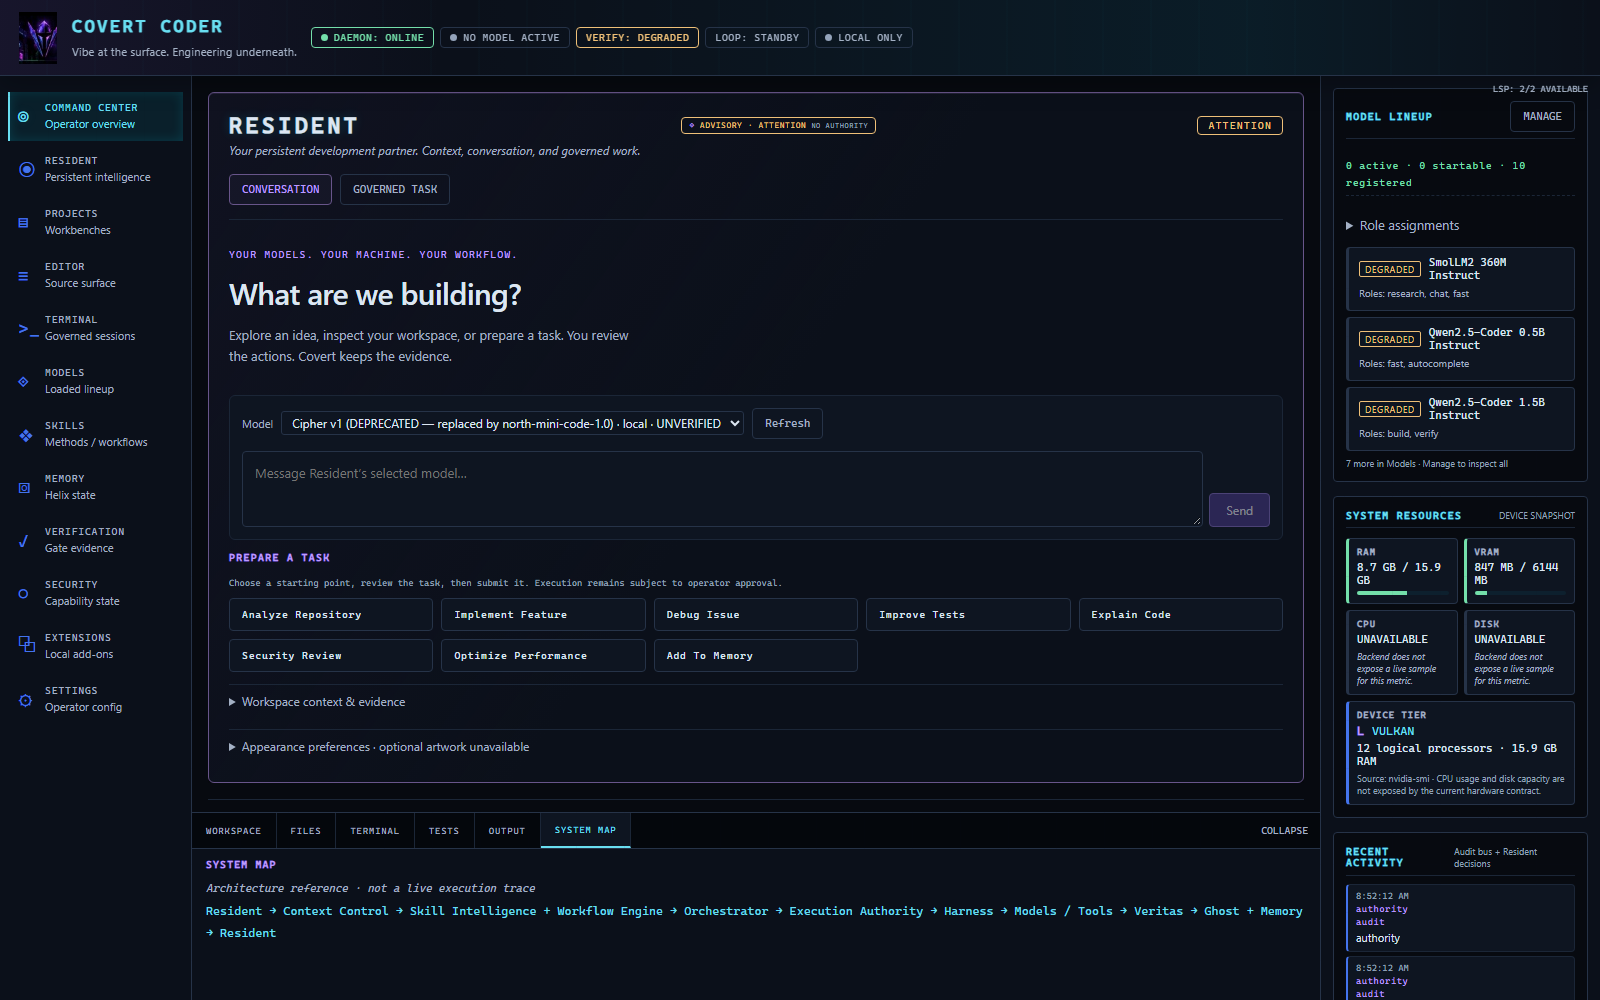
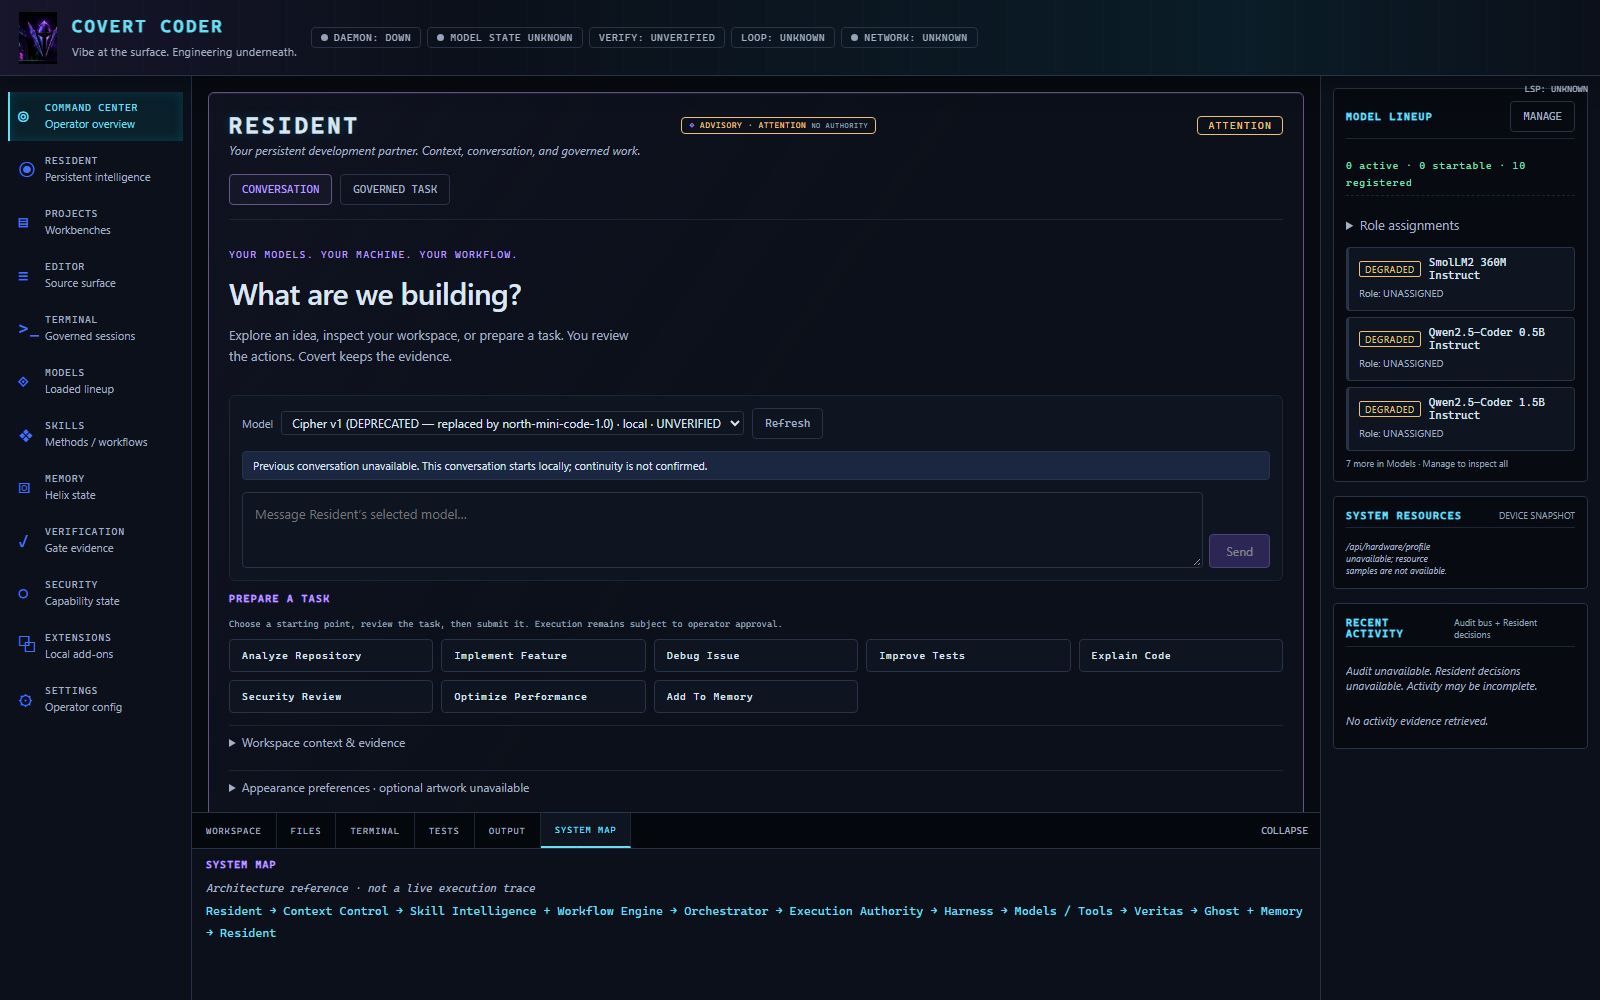
fix(cockpit): recover startup and bound workspace controls

diff --git a/browser/src/cockpit/ResidentCore.ts b/browser/src/cockpit/ResidentCore.ts
@@ -406,13 +406,19 @@ export function createResidentCore(parent: HTMLElement, _store: Store<AppState>,
     }
   }
 
+  let refreshing = false;
   async function refresh(): Promise<void> {
-    if (!alive) return;
-    const [summary, context, push, decisions] = await Promise.all([loadSummary(), loadContext(), loadPush(), loadDecisions()]);
-    if (!alive) return;
-    const data: ResidentData = { summary, context, push, decisions };
-    paintStateBadge(data);
-    paintConversation(data);
+    if (!alive || refreshing) return;
+    refreshing = true;
+    try {
+      const [summary, context, push, decisions] = await Promise.all([loadSummary(), loadContext(), loadPush(), loadDecisions()]);
+      if (!alive) return;
+      const data: ResidentData = { summary, context, push, decisions };
+      paintStateBadge(data);
+      paintConversation(data);
+    } finally {
+      refreshing = false;
+    }
   }
 
   void refresh();

diff --git a/browser/src/editor/groups.ts b/browser/src/editor/groups.ts
@@ -83,6 +83,20 @@ export function createGroups(root: HTMLElement, opts: GroupsOptions): GroupsMana
   const listeners = new Set<() => void>();
 
   const notify = (): void => {
+    for (const group of groups.values()) {
+      const close = group.element.querySelector<HTMLButtonElement>('[aria-label="Close editor group"]');
+      if (close) {
+        close.disabled = groups.size <= 1;
+        close.title = close.disabled ? 'Keep at least one editor group open' : 'Close group';
+      }
+      for (const direction of ['right', 'below']) {
+        const split = group.element.querySelector<HTMLButtonElement>(`[aria-label="Split editor ${direction}"]`);
+        if (split) {
+          split.disabled = groups.size >= GROUP_MAX;
+          split.title = split.disabled ? `Maximum ${GROUP_MAX} editor groups reached` : `Split ${direction}`;
+        }
+      }
+    }
     for (const fn of listeners) fn();
   };
 

diff --git a/browser/src/cockpit/ProjectsSurface.ts b/browser/src/cockpit/ProjectsSurface.ts
@@ -87,7 +87,9 @@ export function createProjectsSurface(parent: HTMLElement, store: Store<AppState
   }
 
   async function refresh(): Promise<void> {
-    if (!alive) return;
+    if (!alive || refreshButton.disabled) return;
+    refreshButton.disabled = true;
+    refreshButton.textContent = 'REFRESHING…';
     try {
       const workspace = await api.workspaceList();
       if (!alive) return;
@@ -95,6 +97,11 @@ export function createProjectsSurface(parent: HTMLElement, store: Store<AppState
       renderWorkspace(workspace);
     } catch {
       renderWorkspace(null);
+    } finally {
+      if (alive) {
+        refreshButton.disabled = false;
+        refreshButton.textContent = 'REFRESH';
+      }
     }
   }
 

diff --git a/browser/src/cockpit/SystemTelemetry.ts b/browser/src/cockpit/SystemTelemetry.ts
@@ -80,12 +80,15 @@ export function createSystemTelemetry(parent: HTMLElement, _store: Store<AppStat
   parent.appendChild(root);
 
   let alive = true;
+  let refreshing = false;
 
   async function refresh(): Promise<void> {
-    if (!alive) return;
+    if (!alive || refreshing) return;
+    refreshing = true;
     let hardware: HardwareProfileResponseT | null = null;
     try { hardware = await api.hardwareProfile(); }
     catch { hardware = null; }
+    finally { refreshing = false; }
     if (!alive) return;
     const data: TelemetryData = { hardware };
     paint(data);

diff --git a/browser/src/main.ts b/browser/src/main.ts
@@ -129,7 +129,8 @@ async function boot(): Promise<void> {
   } catch (error) {
     shell.topbar.setDaemon({ label: 'DOWN', reachable: false });
     shell.notify('NOT_READY', error instanceof Error ? error.message : 'daemon unreachable');
-    return;
+    // A failed observation must not permanently strand the editor. Continue
+    // bounded restoration; every file/operation request still enforces authority.
   }
 
   try {

diff --git a/docs/evidence/final-cockpit-report.md b/docs/evidence/final-cockpit-report.md
@@ -47,8 +47,11 @@ All 12 destinations were traversed in the real browser and their visible control
 | Empty chat/task submission | DISABLED WITH REASON — enter content first; active task/stream prevents duplicate submission |
 | Chat streaming/cancellation and governed decisions | REAL BUT DEGRADED in this checkout — UI stream fixture and route/authority tests pass; no installed model, so no live generation certification |
 | Project file opening, Monaco splits/tab controls | REAL AND WORKING — real `package.json`, distinct split IDs, collapse and last-group preservation |
+| Latest Windows workspace availability | REAL BUT DEGRADED — initial read unavailable; explicit Refresh recovered it and real file opening/splits passed in the latest diagnostic run |
 | Editor session persistence | REAL BUT DEGRADED in capture run — save approvals intentionally denied; explanatory notification, no unhandled rejection; no persistence claim |
-| PTY open/stop | REAL AND WORKING — exact start/stop approval, real shell command; no model-mediated command execution |
+| Last editor-group close / eight-group split limit | DISABLED WITH REASON — explicit unavailable state and explanatory title; browser regression checks exercise both limits |
+| Workspace Refresh | REAL AND WORKING / backend-dependent — pending label and duplicate-request lock; one explicit recovery attempt is allowed by the live review driver |
+| PTY open/stop | Earlier exact start/stop approval and real shell command passed. Latest run REAL BUT DEGRADED: provider probe timed out, OPEN SESSION unavailable; no model-mediated command execution |
 | Model start/stop | REAL BUT DEGRADED / DISABLED WITH REASON — runtime/artifact prerequisites absent; contract tests cover authority/lifecycle; no artifact-to-READY promotion |
 | Skill activation / dynamic Harness Modes | NOT YET AVAILABLE — no fake execution controls |
 | Memory retrieval | REAL BUT GOVERNED — explicit existing route; no automatic write-triggering refresh or invented recall guarantee |
@@ -93,14 +96,32 @@ Final results and release decision are recorded in the accompanying verification
 - Whole-repository ESLint: exit 0, zero errors, 60 existing warnings.
 - Production Vite build: exit 0; existing large-bundle warning remains (Monaco and language workers).
 - Current cockpit acceptance: exit 0, including streamed fixture response, navigation, truth states, geometry, responsive layout and zero browser exceptions.
-- Final real-stack functional review: exit 0, 12 surfaces, four widths, real Monaco and approved PTY; zero page exceptions. Expected HTTP 409 approval challenges/session-save denial retained.
+- Earlier complete real-stack functional review: exit 0, 12 surfaces, four widths, real Monaco and approved PTY; zero page exceptions. Expected HTTP 409 approval challenges/session-save denial retained. Latest follow-up is separately recorded below.
 - Affected integration/architecture selection: 65/65 passed; supplemental UI/session selection 17/17 passed; approval/product-text/toast selection 6/6 passed. These overlap and are not summed as unique tests.
 - Frontend launcher unit tests: 3/3 passed.
 - First full architecture run: 611 passed, 16 timed out, 11 skipped. All six affected files rerun alone: 41/41 passed. A final quiet full run is recorded separately; no timeout thresholds or assertions were weakened.
 - Final quiet full architecture run: **627 passed, 1 failed, 11 skipped**, exit 1, 577.1 seconds. Failure: `tests/arch/closed-loop-mission.test.ts:230`, approved-action mission, `agent should finish done (got null)`. The status polling budget ended without observing done/error/aborted. This is a backend mission boundary, not a browser exception; no causal attribution to resource pressure is claimed without further evidence.
 - That mission file was then run alone, with the unchanged close shim and test timeout: **2 passed, 1 failed**, exit 1, 65.9 seconds. The approved-action mission failed with `TimeoutError: The operation was aborted due to timeout`; rejection and context-injection checks passed. This unresolved backend integration gate is handed to the AgentLoop/closed-loop owner; frontend source changes do not authorize repairing backend completion semantics.
+- A later editor-control follow-up live attempt stopped on Projects with workspace/bundle read timeouts and two HTTP 403 observations (models/routes, audit/events), while recording zero page exceptions. Daemon read durations reached 10–53 seconds. Its failure is preserved in `.aide/ui-review/followup-degraded-review.json`; the driver now permits one existing Refresh action and records recovery explicitly. No read deadline, authority rule or backend behavior was weakened.
+- The recovery attempt restored workspace data but exposed a separate frontend defect: startup returned permanently after an initial failed health observation, before setting editor readiness. Removed that early return; bounded session restoration and independently authorized file access continue without pretending daemon health is good. A browser regression now forces a failed startup health envelope and checks editor readiness, usable file controls and Resident's unchanged authority boundary. The failed pre-fix attempt remains in `.aide/ui-review/followup-functional.log`.
 - Windows review-driver note: node-pty 1.1.0 can emit an intermittent `AttachConsole failed` helper warning while closing its native console. Source inspection identifies asynchronous enumeration racing native close. It is not a browser exception; driver exit and owned process/port cleanup are checked separately. Dependency internals were not patched to conceal it.
 
 Commits, remote CI, final cleanup and ACCEPT/BLOCK decisions must be read from the final handoff and manifest, not inferred from the screenshots.
 
 Final post-build canonical launch and real Edge traversal: **12 surfaces, zero page exceptions, exit 0**. Verified cleanup: `REVIEW_SURVIVORS=0 REVIEW_LISTENERS=0 LAUNCHER_24248=0`. Other lanes' processes were not stopped. Final frontend type/lint, three launcher unit tests, production build and cockpit acceptance (including reduced motion) passed.
+
+That successful freeze preceded the final editor-control/startup follow-up. Subsequent failed workspace/Monaco attempts remain in `repaired-functional.log` and `final-guarded-functional.log`. The **latest instrumented** real-stack run recovered workspace data with one explicit Refresh, opened the real file, exercised split/last-group behavior and passed setup focus checks. It then stopped at Terminal: `Provider probe failed: signal timed out`; `/api/terminal/providers` recorded `net::ERR_ABORTED`, and OPEN SESSION was unavailable. Zero page exceptions. Evidence: `.aide/ui-review/diagnostic-functional.log` and `functional-review.json`. No backend root cause is asserted from the timeout alone. Fresh Command Center, Resident and Editor captures are published from this run; screenshots are not a passing end-to-end gate.
+
+After all follow-up production edits: frontend TypeScript, scoped ESLint, production build and cockpit fixture acceptance passed. The fixture now covers failed-health startup recovery, eight-group split limit and disabled last-group close. UI/session selection: 14/14 passed; launcher unit tests: 3/3 passed. Final process inspection found no owned review Node processes or listeners on 4273/4877/4878/4879.
+
+A final source audit also found overlapping-refresh exposure in the Resident and resource pollers. In-flight guards now prevent either from launching a second refresh while its current request set is pending, matching the existing model/activity guards. This reduces avoidable frontend load; it is not claimed as proof of the underlying backend-latency cause or resolution of the blocked live gate.
+
+## Published revision and release decision
+
+- Cockpit implementation: `c6e00c0249d10c02d88a8c1d9c2b02849e186010`.
+- Public presentation/evidence: `4cffb245863c732f00650da6075b6360352fc3e1`.
+- Both pushed to `origin/feat/final-cockpit-production-ui`; no merge into `covert-production`.
+- [Remote CI run 35448220259](https://github.com/AnonymousNomad/covert-coder/actions/runs/35448220259) **SUCCESS** for `4cffb24`: installation, frontend build, backend/integration tests, types/lint, architecture, Veritas and worktree checks all passed. The editor-control follow-up has separate HEAD checks; consult the final handoff for that exact revision.
+- **FRONTEND PRODUCTION — BLOCK. PUBLIC PRODUCT SURFACE — BLOCK.** Presentation, static checks and controlled browser regressions are delivered, but release acceptance cannot ignore the reproduced Windows closed-loop mission failure and latest terminal-provider availability failure. The frontend startup defect found during this process was repaired and its regression passed; current live acceptance remains blocked. Missing optional telemetry/artifacts are disclosed states, not fabricated release blockers.
+
+The design, responsive/accessibility and repository-publication skills informed token consolidation, keyboard/focus and reduced-motion behavior, and the evidence-backed public capability matrix. They did not authorize changing backend semantics or declaring missing capabilities complete.

diff --git a/AGENT_NOTES.md b/AGENT_NOTES.md
@@ -3,6 +3,10 @@
 Project: E:\aide-sovereign-workbench — offline-first IDE (VS Code + GitHub + Android Studio) with 3 pre-installed GGUF models, zero cloud.
 Journal rules: append-only, newest first, timestamped `YYYY-MM-DD HH:MM`, actor named. This is the project memory.
 
+## 2026-09-19 10:20 — Astra frontend follow-up handoff
+
+Same isolated branch/base as the entry below. Fixed failed-health startup continuation, bounded editor controls, pending workspace refresh and overlapping Resident/resource polls. Frontend types/lint/build/fixture acceptance passed; UI/session 14/14 and launcher 3/3 passed. Latest real browser opened the file and passed split/setup checks, then Terminal provider probe timed out; zero page exceptions. Fresh real captures published. R7 final inspection: no owned review Node processes or review-port listeners; other lanes untouched. Earlier published HEAD 4cffb24 CI run 35448220259 passed; follow-up HEAD CI is reported in the final handoff. Production remains BLOCK on local closed-loop completion and live provider availability. No backend changes or production merge.
+
 ## 2026-09-19 09:14 — Astra isolated frontend review
 
 Worktree `E:\aide-sovereign-workbench-astra-ui`, branch `feat/final-cockpit-production-ui`, base `70bc46ae0a6b71afcb829f6d95a6e706f49fcd75`. Owner worktree untouched. Final 12-surface real-browser freeze: zero page exceptions. R7: browser and launcher 24248 closed; verified `REVIEW_SURVIVORS=0 REVIEW_LISTENERS=0 LAUNCHER_24248=0` on review ports 4273/4877/4878/4879. Earlier node-pty helper teardown warning is documented, not concealed. Full architecture result 627 pass / 1 fail / 11 skip; closed-loop mission isolated 2 pass / 1 timeout. Production acceptance remains blocked on that backend integration gate and CI. See `docs/evidence/final-cockpit-report.md`; no production merge.

diff --git a/docs/assets/screenshots/README.md b/docs/assets/screenshots/README.md
@@ -2,6 +2,8 @@
 
 Captured 2026-09-19 from `feat/final-cockpit-production-ui`, based on integrated revision `70bc46ae0a6b71afcb829f6d95a6e706f49fcd75`. The Git commit containing these assets identifies their frontend source revision.
 
+The three publication images were refreshed after the final editor-control/startup-recovery follow-up, at 10:10–10:11 local time. The instrumented real-stack review opened the actual workspace file and passed split/setup checks, then stopped on a timed-out terminal provider probe. The visible unavailable/degraded state is real; these captures must not be mistaken for a passing end-to-end gate.
+
 - [Command Center](covert-command-center.png): Resident, truthful model/resource state, operational intelligence, lower console.
 - [Resident](covert-resident.png): governed-task presentation; no task has been fabricated or submitted for the image.
 - [Editor](covert-editor.png): real repository `package.json` open in Monaco.
